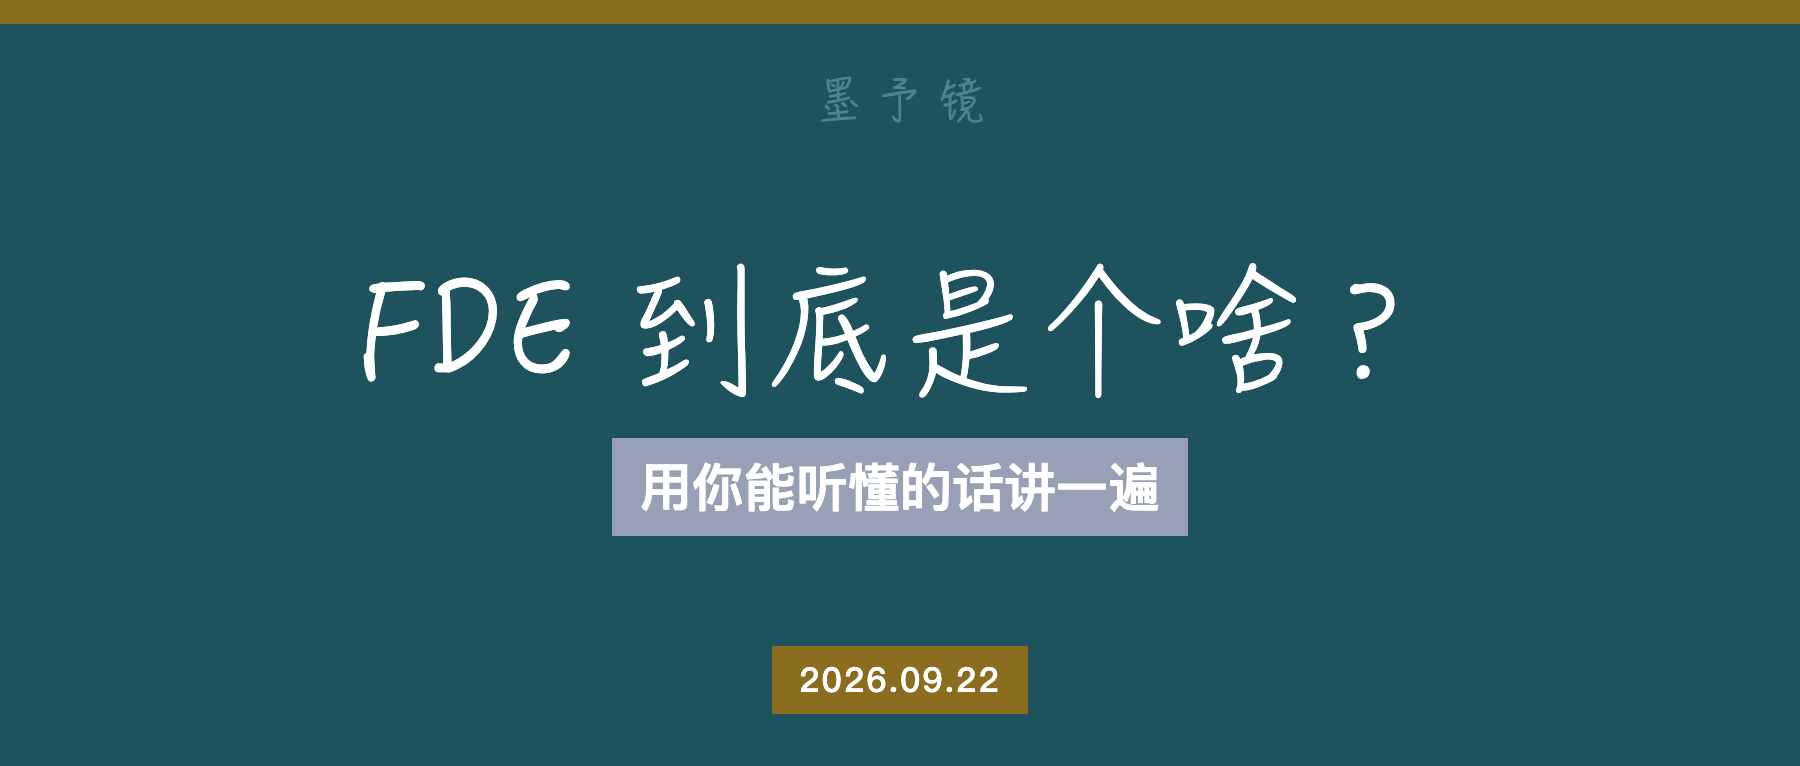
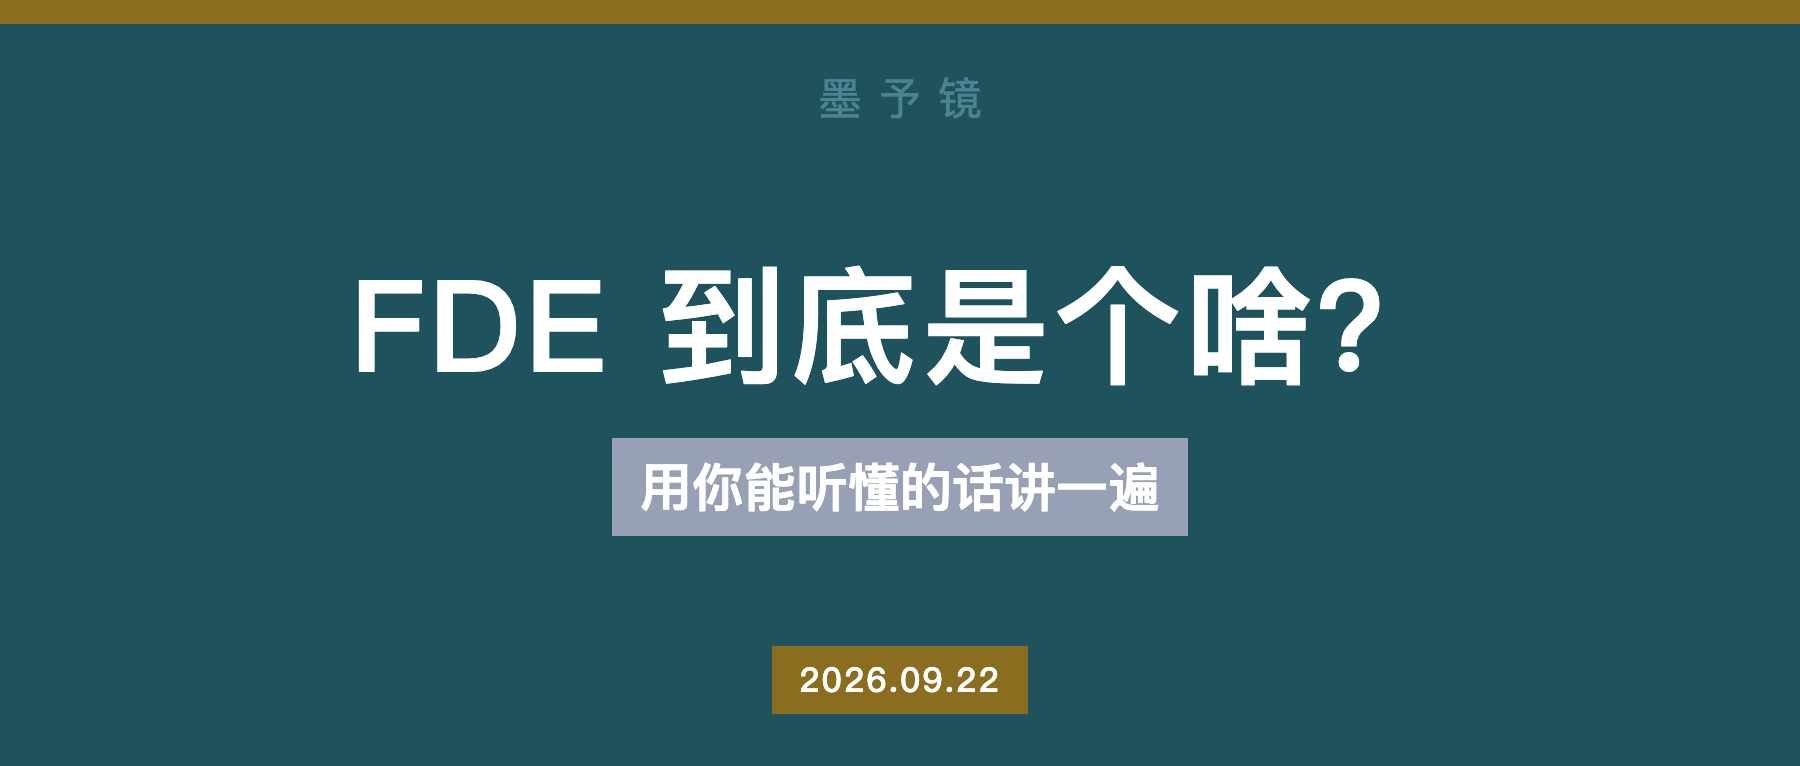
feat(moyujing-cover): 封面改黑体系字体+纯色底（科技感取向）；FDE 三候选重出

Changed region(s): [[0.1867, 0.3303, 0.7778, 0.5104], [0.4356, 0.0901, 0.56, 0.1501]]

diff --git a/skills/moyujing-cover/templates/cover-v1.html b/skills/moyujing-cover/templates/cover-v1.html
@@ -16,23 +16,28 @@
     --badge-text: #ffffff;
   }
   * { margin: 0; padding: 0; box-sizing: border-box; }
-  @font-face {
-    font-family: "Muyao-Softbrush";
-    src: url("{{FONT_URL}}") format("truetype");
-  }
   html, body { width: 900px; height: 383px; }
+  .art {
+    position: absolute; inset: 0; z-index: 0;
+    background-size: cover; background-position: center;
+    display: {{ART_DISPLAY}};
+  }
+  .veil {
+    position: absolute; inset: 0; z-index: 1;
+    background: var(--bg); opacity: {{VEIL_OPACITY}};
+  }
   body {
     background: var(--bg);
     position: relative;
     overflow: hidden;
-    font-family: "Muyao-Softbrush", "翩翩体-简", sans-serif;
+    font-family: "PingFang SC", "Heiti SC", "Microsoft YaHei", "黑体", sans-serif;
   }
   .stripe {
     position: absolute; top: 0; left: 0; right: 0; height: 12px;
     background: var(--stripe);
   }
   .watermark {
-    position: absolute; top: 34px; left: 0; right: 0;
+    position: absolute; z-index: 2; top: 34px; left: 0; right: 0;
     text-align: center;
     color: var(--watermark);
     font-size: 22px;
@@ -40,7 +45,7 @@
     text-indent: 8px;
   }
   .stage {
-    position: absolute; top: 12px; left: 0; right: 0; bottom: 0;
+    position: absolute; z-index: 2; top: 12px; left: 0; right: 0; bottom: 0;
     display: flex; flex-direction: column;
     align-items: center; justify-content: center;
     gap: 18px;
@@ -48,6 +53,7 @@
   .title {
     color: var(--title);
     font-size: 64px;
+    font-weight: 800;
     line-height: 1.15;
     text-align: center;
     padding: 0 40px;
@@ -64,7 +70,7 @@
     text-align: center;
   }
   .badge {
-    position: absolute; bottom: 26px; left: 0; right: 0;
+    position: absolute; z-index: 2; bottom: 26px; left: 0; right: 0;
     text-align: center;
   }
   .badge span {
@@ -80,6 +86,8 @@
 </style>
 </head>
 <body>
+  <div class="art" style="background-image: url('{{BG_IMAGE}}')"></div>
+  <div class="veil"></div>
   <div class="stripe"></div>
   <div class="watermark">{{WATERMARK}}</div>
   <div class="stage">

diff --git a/projects/content-matrix/accounts/墨予镜/公众号封面/FDE-到底是个啥-cover-assets/wechat-cover-manifest.md b/projects/content-matrix/accounts/墨予镜/公众号封面/FDE-到底是个啥-cover-assets/wechat-cover-manifest.md
@@ -9,7 +9,8 @@
 - 副标题：用你能听懂的话讲一遍
 - 日期：2026.09.22
 - 渲染方式：cover-v1 模板（HTML）+ Playwright 截图 900×383（2x）
-- 字体：沐瑶软笔手写体（标题）/ 苹方（副标题、日期）
+- 字体：黑体系（PingFang SC / Hei SC，字重 800）/ 苹方（副标题、日期）
+- 底图：纯色（无 AI 底图）
 
 | 候选 | 路径 | 配色 |
 | --- | --- | --- |
@@ -17,4 +18,4 @@
 | wx-cover-02 | /Users/xinran/Downloads/dev/mindsync/projects/content-matrix/accounts/墨予镜/公众号封面/FDE-到底是个啥-cover-assets/wx-cover-02.png | 深绿 #1d3a2f + 暖金 #c9a227 |
 | wx-cover-03 | /Users/xinran/Downloads/dev/mindsync/projects/content-matrix/accounts/墨予镜/公众号封面/FDE-到底是个啥-cover-assets/wx-cover-03.png | 墨黑 #22262a + 金赭 #8a6d1f |
 
-选定：wx-cover-01（深青+金赭，账号兜底默认配色）
+选定：待定（2026-09-22 字体改黑体后重出，旧选定作废）

diff --git a/skills/moyujing-cover/SKILL.md b/skills/moyujing-cover/SKILL.md
@@ -30,10 +30,9 @@ description: Generate WeChat official account cover images (900×383) for finish
 
 ## 模板结构（templates/cover-v1.html）
 
-顶部金赭条纹 → 居中「墨予镜」低对比水印 → 手写体白色主标题 → 灰蓝底副标题块 → 底部金赭日期徽章。配色全部走 CSS 变量，候选差异仅配色不同。
+顶部金赭条纹 → 居中「墨予镜」低对比水印 → 黑体白色主标题 → 灰蓝底副标题块 → 底部金赭日期徽章。配色全部走 CSS 变量，候选差异仅配色不同。
 
-- 主标题字体：沐瑶软笔手写体（`assets/fonts/Muyao-Softbrush.ttf`，免费可商用，已随 skill 携带，@font-face 加载）
-- 副标题/日期字体：苹方（PingFang SC）
+- 字体：黑体系（PingFang SC / Hei SC，主标题字重 800，科技感取向），副标题/日期苹方（PingFang SC）
 
 ## Workflow
 
